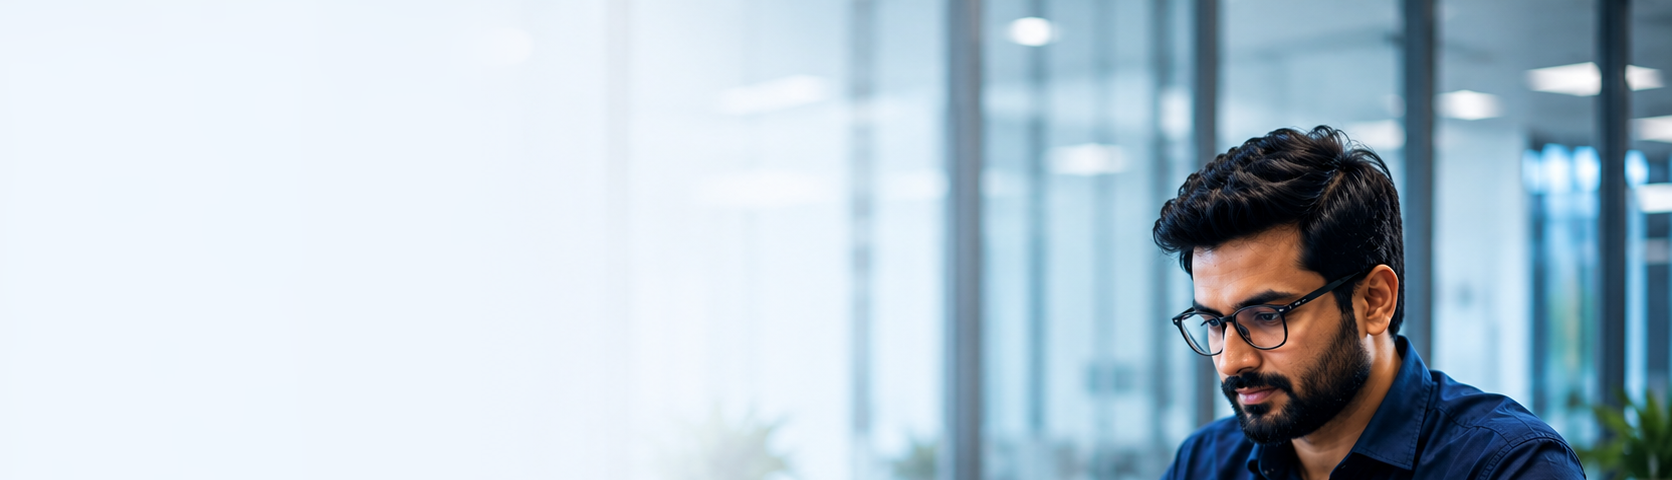
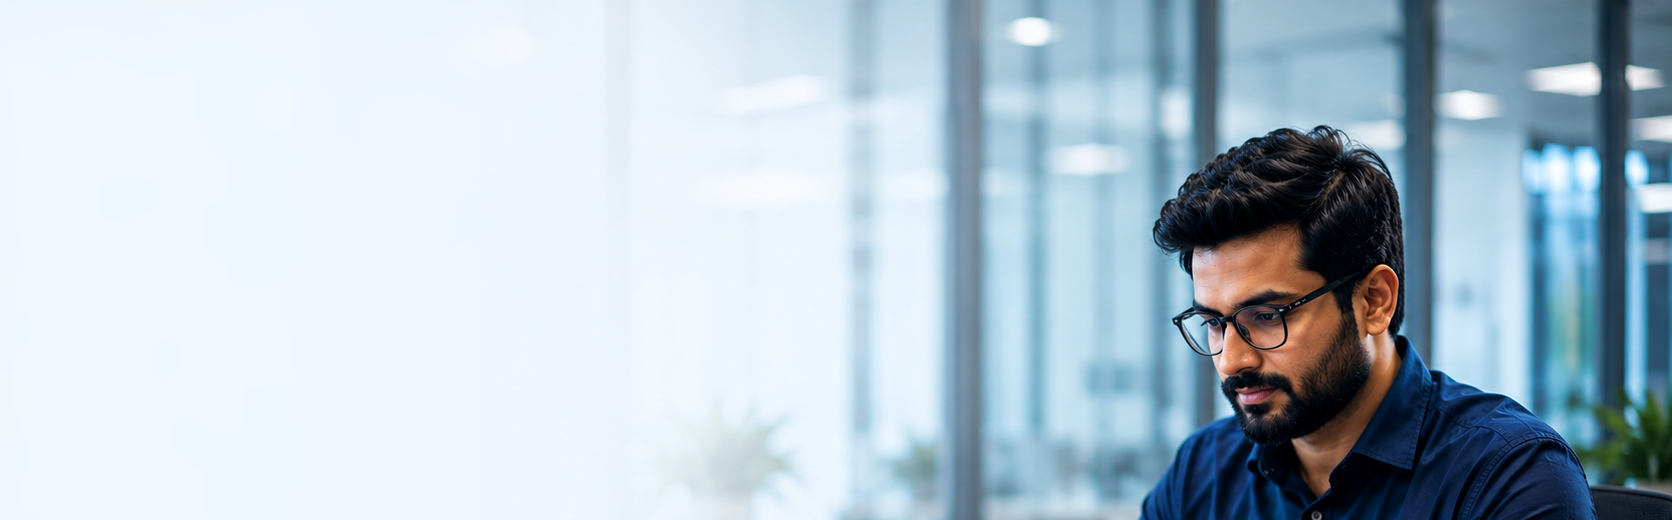
feat: Adjust background height to 520px and background-position to right bottom to fully display laptop and desk

diff --git a/dist/index.html b/dist/index.html
@@ -12,8 +12,8 @@
       href="https://fonts.googleapis.com/css2?family=Plus+Jakarta+Sans:wght@400;500;600;700;800&family=Syne:wght@600;700;800&display=swap"
       rel="stylesheet"
     />
-    <script type="module" crossorigin src="/assets/index-BZTggJ0d.js"></script>
-    <link rel="stylesheet" crossorigin href="/assets/index-BL_ZySBi.css">
+    <script type="module" crossorigin src="/assets/index-dzvmB4wv.js"></script>
+    <link rel="stylesheet" crossorigin href="/assets/index-DFSJZSHB.css">
   </head>
   <body>
     <div id="root"></div>

diff --git a/src/index.css b/src/index.css
@@ -6253,7 +6253,7 @@ body {
   display: flex;
   min-height: 520px;
   background-size: cover;
-  background-position: center right;
+  background-position: right bottom;
   background-repeat: no-repeat;
   padding: 130px 0 40px;
   position: relative;
